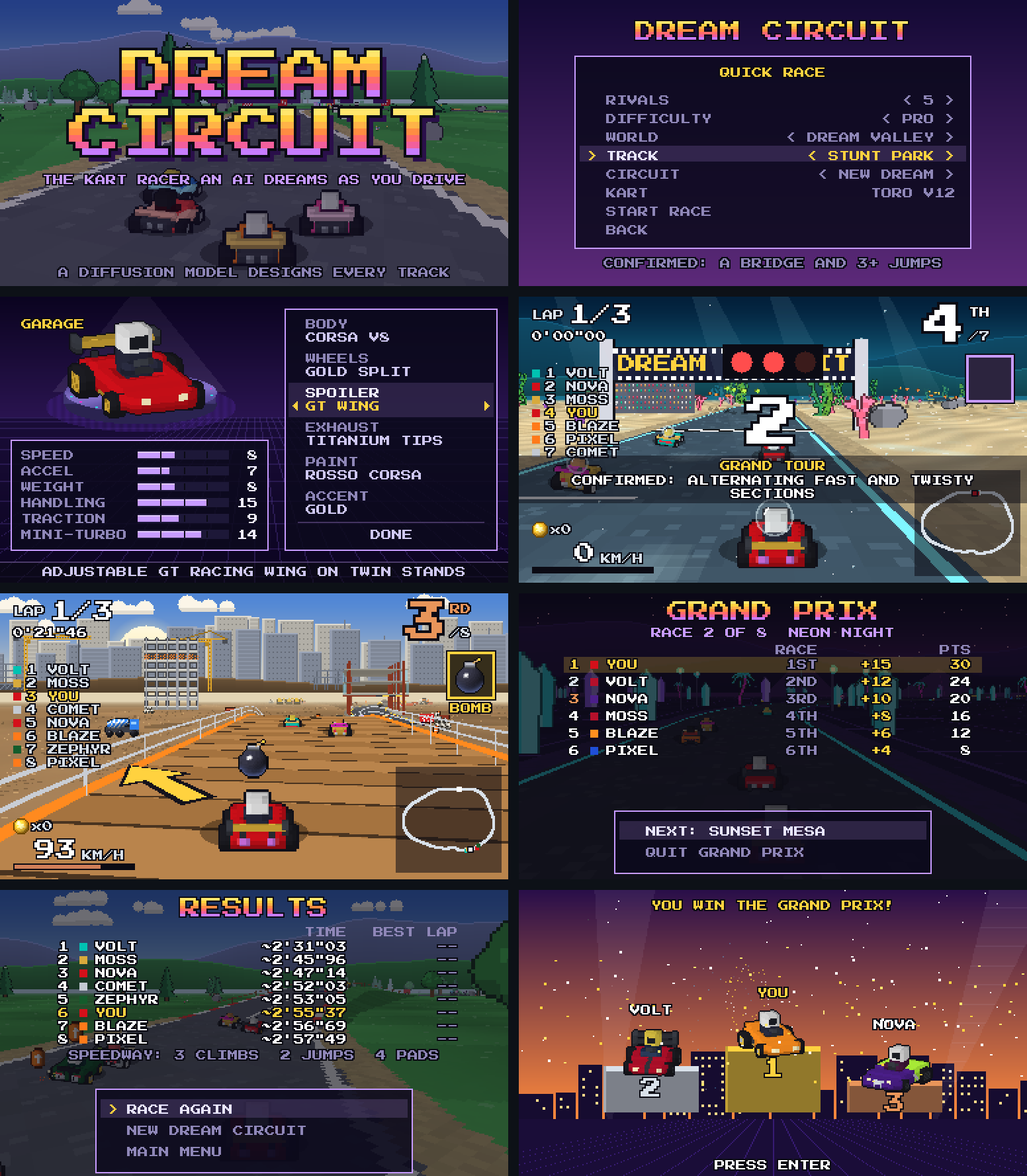
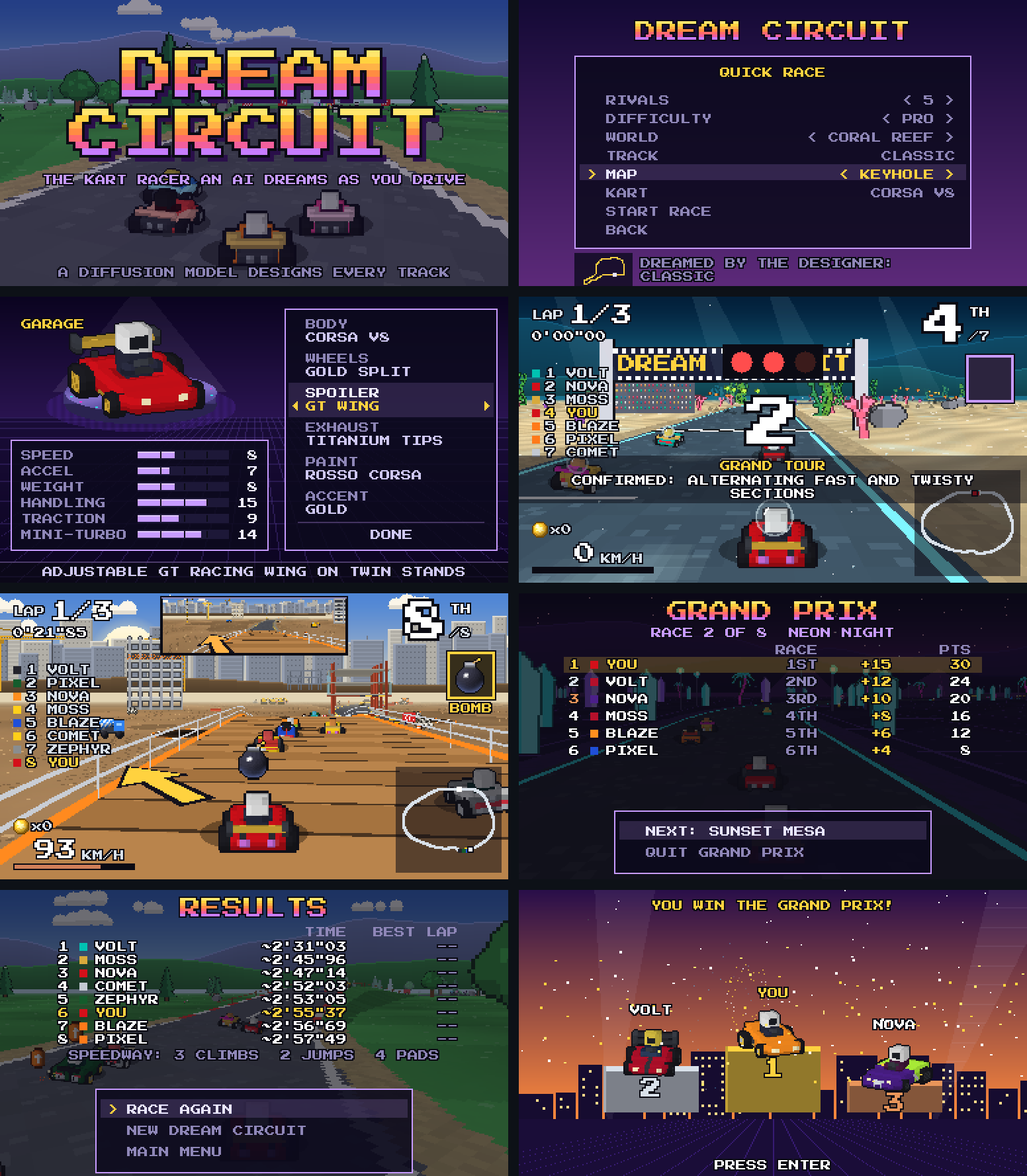
README, design notes, DATA page and screens for this round
Throwing behind with R and the rear-view mirror, the Intermediate class, Quick Race maps,
wider dreamed corners, the smooth climbs and the rescue drone in every world; new setup and
race stills in the screens sheet; 190 tests.

diff --git a/web/src/sections.ts b/web/src/sections.ts
@@ -142,14 +142,14 @@ export function renderTiles(d: Designer | null, s: Summary | null, p: Probes | n
     {
       icon: () => spriteCanvas(kartSprites(DEFAULT_BUILD, LIVERIES[0])[3], 3),
       title: "The race",
-      body: "Mode-7 kart racing in eight worlds, each with its own terrain to race over (meadows, a neon skyway, mesas, coral, cliff ledges, lava, a building site, the moon's low gravity), one race at a time or a Grand Prix for points: drift through a corner to charge a mini-turbo, hit the gas just before GO for a rocket start, and race up to seven rivals in karts built in the garage.",
+      body: "Mode-7 kart racing in eight worlds, each with its own terrain to race over (meadows, a neon skyway, mesas, coral, cliff ledges, lava, a building site, the moon's low gravity), one race at a time, on a fresh dream or a saved map, or a Grand Prix for points: drift through a corner to charge a mini-turbo, hit the gas just before GO for a rocket start, and race up to seven rivals in karts built in the garage.",
       fact: "0 to 7 rivals, in ROOKIE, INTERMEDIATE, PRO and LEGEND classes",
       href: "index.html",
     },
     {
       icon: () => spriteCanvas(itemBoxFrames()[1].sprite, 3),
       title: "Ramps, pads and items",
-      body: "Jump ramps pay a trick boost if you hop at the lip; boost pads sit at corner exits; item boxes hand out 22 items, from turbos and oil to bombs, comets and a rocket for whoever is last, with the odds of the classics by how far behind the leader you are.",
+      body: "Jump ramps pay a trick boost if you hop at the lip; boost pads sit at corner exits; item boxes hand out 22 items, from turbos and oil to bombs, comets and a rocket for whoever is last, with the odds of the classics by how far behind the leader you are. Most can be thrown backward too, aimed in a rear-view mirror.",
       fact: "placed by the game on road the designer has just dreamed",
       href: "index.html",
     },

diff --git a/README.md b/README.md
@@ -30,7 +30,7 @@ When the loop closes it locks, and laps 2 and 3 are raced on the track it dreame
 
 ## What this is
 
-1. **The game.** A third-person, Mode-7-style kart racer in a pixel framebuffer that takes the window's shape and fills the screen: up to 7 AI rivals, three speed classes, eight worlds whose road climbs over their own terrain (meadows, a neon skyway, mesas, coral ridges, cliff ledges, basalt causeways over lava, a crane's girder, crater rims in low gravity), a Grand Prix through all of them with points and a podium, seven track types that each confirm what the dreamed circuit will have, a garage to build your kart, jump ramps with trick boosts, bridges where a figure-eight crosses itself, boost pads, 22 items with the odds of the classics, drifting and mini-turbos, rocket starts, a full HUD, and a chiptune soundtrack with a song for every world. Keyboard, gamepad or touch (a joystick on phones). Everything runs in the browser with no server, and there are no image or sound files: the karts, scenery, music and sound are generated by code.
+1. **The game.** A third-person, Mode-7-style kart racer in a pixel framebuffer that takes the window's shape and fills the screen: up to 7 AI rivals, four speed classes, eight worlds whose road climbs over their own terrain (meadows, a neon skyway, mesas, coral ridges, cliff ledges, basalt causeways over lava, a crane's girder, crater rims in low gravity), a Grand Prix through all of them with points and a podium, seven track types that each confirm what the dreamed circuit will have, a garage to build your kart, jump ramps with trick boosts, bridges where a figure-eight crosses itself, boost pads, 22 items with the odds of the classics (thrown ahead or behind, a rear-view mirror for aiming back), a hazard and a rescue drone in every world, drifting and mini-turbos, rocket starts, a full HUD, and a chiptune soundtrack with a song for every world. Keyboard, gamepad or touch (a joystick on phones). Everything runs in the browser with no server, and there are no image or sound files: the karts, scenery, music and sound are generated by code.
 2. **The circuit designer.** A masked-conditional diffusion model (EDM, 1-D U-Net) trained on 66,500 circuits from a procedural circuit architect, 35% of them figure-eights. In the game it inpaints the road ahead of the karts, conditioned on everything already built and on the track type you picked (or, on a Classic track, how you are driving), and closes the loop at the start line. **No circuit exists before the race starts.**
 3. **The Dream Lab** (DREAM LAB on the main menu, part of the DATA page). A second diffusion model, a *world model*, that imagines an entire racing simulator frame by frame from the keys you press, plus the science around it: a physics audit of the dream, linear probes that find what no single frame shows (yaw rate, slip, the curve of road beyond view), and steering vectors that edit its physics live.
 
@@ -41,25 +41,26 @@ When the loop closes it locks, and laps 2 and 3 are raced on the track it dreame
 
 | | |
 |---|---|
-| **Quick Race** | 3 laps on a circuit dreamed for that race, in the world of your choice; re-race your last locked circuit from the setup screen |
+| **Quick Race** | 3 laps in the world of your choice, on the map of your choice: a circuit dreamed for that race, one of the last eight you dreamed (kept on your device), or one of eight showcase circuits the designer dreamed, each drawn beside the menu |
 | **Grand Prix** | A race in every world, back to back, against the same rivals in the same karts. Each race pays points by finishing place (15, 12, 10, 8, 6, 4, 2, 1); the standings after each race count the points up and slide the field into its new order, with total time breaking ties. At the end, an award ceremony: the camera finds third, second and first on their pedestals, each racer in their kart with their name over it, then pulls back for fireworks, confetti, spotlights, a fanfare and a cheering crowd (a winning player gets the biggest show) |
 | **Worlds** | **Dream Valley**, where the road rolls over grassy rises behind wooden fences, past woods and knolls; **Neon Night**, a synthwave grid of crystals, where the road climbs onto a skyway on pylons, with neon tubes for rails, and over low rollers of the grid, glowing peaks on the horizon; **Sunset Mesa**, up onto the tops of mesas walled in bands of sandstone, and over dunes, buttes all around; **Coral Reef**, under the sea, over ridges of rock and coral fans, where every driver wears a clear bubble helmet, sunlight ripples over the sand, shafts of light slant down, bubbles rise and schools of fish circle the kelp, coral and a shipwreck; **Mountain Pass**, over rocky shoulders of the mountain and along ledges cut into its cliffs (the rock face on one side, the drop and a guard rail on the other), through tunnels in the rock, crags and snowy peaks all around; **Volcano Core**, inside a volcano, where the road is a causeway of rock across a lake of lava that glows and flows, rising onto basalt columns over the lava itself, with cinder cones, crater walls and lava falls all around and embers rising. Drive off the rock and you sink into the lava: the screen goes dark red, and a rescue drone lowers your kart back onto the road where you left it and lets it go, about two seconds later (hop as it drops for a trick boost); **Construction Zone**, a building site where you race up onto concrete foundations, along scaffolding and high on a tower crane's steel girder, and through the steel frames of buildings going up, a city of towers and cranes behind; and **Moon Base**, in low gravity (a fast kart floats off the top of every crater's rim), every driver in a helmet, landers, domes and dishes on the regolith, and the Earth hanging in a black sky. Each world has its own chiptune |
 | **Rivals** | 0 to 7 AI karts with racing lines, braking points, overtaking room, drifts into tight corners, items saved for the right moment, and the classic rubber band. Each drives a random garage build, and the harder the class, the better the build |
-| **Difficulty** | Rookie, Pro and Legend: top speed, grip, how sharply the rivals drive and how good their karts are |
+| **Difficulty** | Rookie, Intermediate, Pro and Legend: top speed, grip, how sharply the rivals drive and how good their karts are |
 | **Garage** | Build your kart from 13 bodies inspired by real supercars (an Italian V8, a raging-bull V12 wedge, a British carbon-tub GT, a rear-engine flat-six, a W16 hypercar, a JDM twin-turbo, American muscle, a kei car, a rally hatch, a Le Mans prototype, an electric hypercar...), 13 wheels, 10 spoilers and 11 exhausts named after real tuner parts (GT wing, swan neck, ducktail, straight pipe, titanium tips, muffler delete...), plus 17 paints and 10 accents. Every part moves six stats, the ones classic kart racers show: speed, acceleration, weight, handling, traction and mini-turbo. The kart turns on a lit pedestal while you build it, its stats on a card beside the parts, with a line about the part you picked |
 | **Driving** | Arcade handling with surfaces (asphalt, kerb, shoulder, grass), drifts that charge blue and orange mini-turbos, kart-to-kart bumps where the heavier kart gives less ground; your build's stats set top speed, acceleration, cornering, grip off the road and how hard a mini-turbo fires |
+| **Rescue drone** | Every world has something to drive into off the road, set out past the shoulder on the outside of the bends: ponds in Dream Valley, holes in Neon Night's grid, quicksand in Sunset Mesa, a trench in the reef, crevasses in the mountains, the lava in the volcano, dug-out pits on the building site and chasms on the moon. Drive in, or fly off the open edge of a bridge, the skyway, a girder or a scaffold, and the screen goes dark in the colour of what you fell into while a drone lowers your kart back onto the road you left and lets it go |
 | **Jumps and tricks** | Ramps on the long straights: hop right at the lip for a trick, land it for a boost (a perfect trick boosts longer). Boost pads at corner exits (and along the straights on a Speedway) |
 | **Climbs and terrain** | In every world the road climbs two or three times a lap, built as that world builds: a grassy rise, a neon skyway, a mesa or a dune, a coral ridge, a rocky shoulder or a cliff ledge, a basalt causeway, a foundation, a scaffold or a crane's girder, a crater's rim. Each world's kinds take turns, so a lap has one of each, and a climb never takes a straight that has earned a jump. Around the circuit stand solid, sunlit landforms (knolls, buttes and dunes, glowing peaks, crags, cinder cones, heaps of spoil, reef rocks, old crater rims), always beyond where a kart can drive, and the ground itself is shaded as if it rose and fell, with ripples across the sand |
 | **Bridges** | When a figure-eight crosses itself, the later stretch flies 6 m over the earlier one on ramps, with guard rails and pillars; traffic passes over and under |
 | **The start** | Hit the gas in the half second before GO for a rocket start; hold it too early and the wheels spin |
 | **Track types** | Every circuit is still dreamed live during lap 1; the type you pick steers the dream and confirms what it will have. **Classic**: the road follows your driving. **Figure 8**: a bridge where the track crosses itself. **Speedway**: fast sweepers (every arc is asked for calm road and checked), 2+ jumps and boost pads on the straights. **Technical**: tight corners all lap (every arc asked for wild road and checked) and a pad out of the hairpins. **Grand Tour**: alternating fast and twisty sections. **Stunt Park**: a bridge and 3+ jumps. **Roller Coaster**: 4+ climbs and drops, in any world, built in that world's style. **Surprise me** picks one; a Grand Prix of surprises runs a different type every race. The countdown says what is confirmed, and the results list what was built |
-| **Items** | 22 items, as many as Mario Kart 8 Deluxe has, each doing the job of one of its items, with original names and art; rows of item boxes and lines of coins on the dreamed road, a roulette slot, and every kart shows what it carries. **Turbo**, **Triple Turbo** and **Gold Turbo** (a boost on every press for a while); **Oil Slick** and **Triple Oil** drop behind you; **Puck** and **Triple Puck** slide where you aim and bounce off the road's edges; **Dream Orb** and **Triple Orb** home onto the kart ahead; **Comet** flies up the road to the leader and comes down on them; **Bomb** is lobbed at the racer one place ahead, and its blast catches everyone near; **Rocket** flies your kart up the road, past two karts at most and never into the lead; **Static** fills the screens of everyone ahead; **Shock** spins, shrinks and slows everyone else (and a full-size kart flattens a shrunk one); **Prism** makes you invincible and faster; **Flares** throw bouncing fireballs on every press; **Boomerang** goes out where you aim and comes back, three times; **Grabber** puts a snapping claw in front of the kart; **Horn** spins whoever is close and knocks every item near out of the air, a comet too; **Jackpot** circles eight items around the kart, used one by one; **Coin** gives two coins (every coin, up to ten, is a little more top speed, and a spin costs three); **Phantom** makes you see-through and untouchable and steals someone's item. Thrown items are aimed with two presses: the first locks the sweeping arrow (a bomb or puck rides out behind as a shield meanwhile), the second throws. Items meet as they do in the classic: projectiles and slicks take each other out, an item held behind you or circling you blocks a hit, and blasts and horns clear the items around them. The odds of each come from Mario Kart 8's own Grand Prix tables, by distance behind the leader (as transcribed on the Super Mario Wiki), one table for players and one for computer drivers; the rocket keeps this game's own rule on top: only the kart in last place, 60 m or more behind the kart ahead. The items are drawn the way 16-bit games drew pre-rendered 3D: shaded pixel by pixel under one light |
+| **Items** | 22 items, as many as Mario Kart 8 Deluxe has, each doing the job of one of its items, with original names and art; rows of item boxes and lines of coins on the dreamed road, a roulette slot, and every kart shows what it carries. **Turbo**, **Triple Turbo** and **Gold Turbo** (a boost on every press for a while); **Oil Slick** and **Triple Oil** drop behind you; **Puck** and **Triple Puck** slide where you aim and bounce off the road's edges; **Dream Orb** and **Triple Orb** home onto the kart ahead; **Comet** flies up the road to the leader and comes down on them; **Bomb** is lobbed at the racer one place ahead, and its blast catches everyone near; **Rocket** flies your kart up the road, past two karts at most and never into the lead; **Static** fills the screens of everyone ahead; **Shock** spins, shrinks and slows everyone else (and a full-size kart flattens a shrunk one); **Prism** makes you invincible and faster; **Flares** throw bouncing fireballs on every press; **Boomerang** goes out where you aim and comes back, three times; **Grabber** puts a snapping claw in front of the kart; **Horn** spins whoever is close and knocks every item near out of the air, a comet too; **Jackpot** circles eight items around the kart, used one by one; **Coin** gives two coins (every coin, up to ten, is a little more top speed, and a spin costs three); **Phantom** makes you see-through and untouchable and steals someone's item. Thrown items are aimed with two presses, ahead with E or behind with R: an arrow sweeps in front of your kart and, mirrored, behind it (shown in a rear-view mirror at the top of the screen, since the camera cannot see the road behind you); the first press locks one (a bomb or puck rides out behind as a shield meanwhile), the second throws. Orbs and flares go straight back with R, and a bomb thrown back lands and waits. Rivals throw back at a kart on their tail when there is nobody to hit ahead. Items meet as they do in the classic: projectiles and slicks take each other out, an item held behind you or circling you blocks a hit, and blasts and horns clear the items around them. The odds of each come from Mario Kart 8's own Grand Prix tables, by distance behind the leader (as transcribed on the Super Mario Wiki), one table for players and one for computer drivers; the rocket keeps this game's own rule on top: only the kart in last place, 60 m or more behind the kart ahead. The items are drawn the way 16-bit games drew pre-rendered 3D: shaded pixel by pixel under one light |
 | **HUD** | Lap counter, race and best-lap timers, live position with podium colors, item slot with roulette (the item's name, shots left, AIM or THROW for an aimed item, and a meter while a prism, rocket, gold turbo, grabber or phantom lasts), a coin counter, a warning when a comet is coming for you, standings for the whole field, speed and boost bar, minimap with the designer's guess, start lights |
-| **Screen and controls** | The framebuffer is sized to the window at a whole-number scale (about 216 rows), so the game fills the screen with crisp pixels on any shape of display. Hold the brake at a standstill to back up (out of the grass too). On a phone, one thumb steers with a floating joystick (push it all the way over to drift, pull it back, straight or on a diagonal, to brake and reverse; the gas is automatic) and the other has DRIFT and ITEM. HOW TO PLAY on the main menu has a page each for the keyboard, the gamepad, touch and tips |
-| **Rendering** | Mode-7 ground with mipmaps and distance fog, the ground shaded by a lit height field so it reads as rolling land, a software polygon rasterizer for bridges, every kind of climb, tunnels (through rock, or a building's steel frame), ramps, pads and the landforms around the circuit, all depth-sorted with the sprites, a parallax sky (a city of cranes behind the building site, the Earth over the moon), billboarded scenery, lava that flows by colour cycling (every lava texel is a phase into a palette that turns over time), karts assembled from their parts as voxel models and baked into 16 viewing angles, exhaust fire while boosting, speed lines and a wider view, and a shimmering "dream mist" at the edge of the road that does not exist yet |
+| **Screen and controls** | The framebuffer is sized to the window at a whole-number scale (about 216 rows), so the game fills the screen with crisp pixels on any shape of display. Hold the brake at a standstill to back up (out of the grass too). On a phone, one thumb steers with a floating joystick (push it all the way over to drift, pull it back, straight or on a diagonal, to brake and reverse; the gas is automatic) and the other has DRIFT, ITEM and BACK (the item thrown behind; R on a keyboard, X on a pad). HOW TO PLAY on the main menu has a page each for the keyboard, the gamepad, touch and tips |
+| **Rendering** | Mode-7 ground with mipmaps and distance fog, the ground shaded by a lit height field so it reads as rolling land, a software polygon rasterizer for bridges, every kind of climb, tunnels (through rock, or a building's steel frame), ramps, pads and the landforms around the circuit, all depth-sorted with the sprites, a parallax sky (a city of cranes behind the building site, the Earth over the moon), a rear-view mirror (the world drawn a second time, from just ahead of the kart looking back, and flipped), billboarded scenery, lava that flows by colour cycling (every lava texel is a phase into a palette that turns over time), karts assembled from their parts as voxel models and baked into 16 viewing angles, exhaust fire while boosting, speed lines and a wider view, and a shimmering "dream mist" at the edge of the road that does not exist yet |
 | **Sound** | A four-channel chiptune for every world, eight songs in all (pulse lead and arpeggio, triangle bass, noise drums) that speed up on the final lap and lead the mix, plus synthesized countdown, boost, jump, trick and item effects. The engine is a soft hum under the music (or off: ENGINE on the main menu) |
 
-<p align="center"><img src="docs/assets/game_screens.png" width="768" alt="Eight screens: the title over a dreamed attract race; Quick Race setup with the Stunt Park track type and what it confirms; the garage; the countdown in Coral Reef with the track type's promise; lap 1 in the Construction Zone, up on a scaffold with a bomb's aiming arrow, a crane and the city behind; the Grand Prix standings after race 2 of 8; the results, with what the track type built; and the Grand Prix podium"></p>
+<p align="center"><img src="docs/assets/game_screens.png" width="768" alt="Eight screens: the title over a dreamed attract race; Quick Race setup with the Keyhole showcase map picked and its layout drawn beside the menu; the garage; the countdown in Coral Reef with the track type's promise; lap 1 in the Construction Zone, up on a scaffold with a bomb, its aiming arrows ahead and in the rear-view mirror, and the city behind; the Grand Prix standings after race 2 of 8; the results, with what the track type built; and the Grand Prix podium"></p>
 <p align="center"><sub>Title, setup (a track type and what it confirms), the garage, the countdown, a race up on a scaffold with a bomb ready to aim, the Grand Prix standings, the results (with what was built) and the podium.</sub></p>
 
 ## The circuit designer
@@ -73,7 +74,7 @@ When the loop closes it locks, and laps 2 and 3 are raced on the track it dreame
 **Live, in the game:**
 
 1. Before the countdown it dreams the start grid and the first stretch: a quarter of the lap.
-2. During lap 1, whenever the leader gets within 28% of a lap of the end of the road, it dreams the next 32 points (about 130 m), conditioned on everything already built, the layout of the track type you picked and the style it (or, on a Classic track, your driving) asks for; an arc that misses the type's style band is dreamed again. Each arc is 24 Heun steps (47 network calls) in a Web Worker.
+2. During lap 1, whenever the leader gets within 28% of a lap of the end of the road, it dreams the next 32 points (about 130 m), conditioned on everything already built, the layout of the track type you picked and the style it (or, on a Classic track, your driving) asks for; an arc that misses the type's style band, or has a corner tighter than 20 m (a hairpin taken at 16 m/s; Technical arcs may bend to 16 m), is dreamed again, and if every try does, the best is kept. Each arc is 24 Heun steps (47 network calls) in a Web Worker.
 3. Each new arc is lightly smoothed and checked in context, together with the designer's guess at the rest of the lap, against the architect's rules. A failing arc is dreamed again, up to 3 times. Road that exists never moves.
 4. Where the road crosses itself, the later stretch becomes a bridge, lifting road that was already built if it has to.
 5. The last arc closes the gap to the grid. The circuit **locks**, the minimap turns solid, and laps 2 and 3 run on exactly the road that was dreamed.
@@ -231,9 +232,9 @@ flowchart LR
 - **And a sharp edge in it.** The lab's two inference sessions share one WASM module, and a `run()` started while another was still in flight corrupted it (`RuntimeError: memory access out of bounds`), after which every run on the page failed. Switching lab modes mid-clip was enough to trigger it. Every inference now goes through one page-wide queue (`web/src/ort-queue.ts`, with tests).
 - **Bit-exact cross-language simulator.** The TypeScript port of the physics and renderer reproduces Python's trajectories to machine precision (about 1e-15), and **0 of 258,048 pixel bytes differ**. To get there, the port emulates NumPy's float32 rounding and its summation order. CI checks it against golden trajectories on every push.
 - **Diagnosed, not tuned.** The first figure-eight designer built 0 of 16 laps live. Instead of training longer, it was measured: given the road so far, the network misplaced the first new point by meters at high noise, which became a kink at every join. The fix was a change of representation (steps between points) plus exact known road, not more compute. The full trail, including the four fixes that did not work, is in the [design notes](docs/DESIGN.md#what-did-not-work-and-what-did).
-- **Game logic under test, headlessly.** Live track growth (committed road never moves, the loop closes and locks), bridges (built where a figure-eight crosses itself, lifting road that already exists; karts stay on the deck), jumps and tricks (a hop at the lip pays a boost on landing), the start procedure, lap counting (including backing over the line), the inference queue, track types (each arc's style measured as in training, within 0.06 of the Python on every reference arc; an arc that misses its band is dreamed again; every type's confirmed jumps, pads and climbs are there after the lock, never under a kart), reversing (out of the grass too), items (all 22 and how they meet: the classic's odds tier by tier, the rocket only for a last place 60 m behind, two-press aiming, a bomb's blast catching everyone near, pucks bouncing, orbits and held items blocking hits, a horn knocking a comet down, a phantom's theft, coins as top speed, every item used by rivals, and press-not-hold firing in a full 8-kart race), the worlds (every world builds its own kinds of climb and keeps all its jumps, karts stay on top of girders and scaffolds, a kart floats off a crater's rim on the moon and hardly hops at home, landforms stand beyond the fence with nothing growing inside them, every world has a song of its own), the garage (stats within range, better rival karts in harder classes, a fast build really is faster and a heavy one wins the bump), the screen sizing and the touch joystick, the volcano (the rock bank is safe and the lava is not; a kart that goes in is set back on the middle of the road it left, facing up it; laps still count right when that is behind the line; and rivals almost never go in), and AI rivals that must lap a twisty circuit off the grass and drift its corners. A crowded-race test caught kart bumps pumping speed in pile-ups: the impulse was not projected onto each kart's heading, and one kart reached 88 m/s. Filming the hero video caught another: the countdown never passed the throttle to the race, so a rocket start was impossible. The race was also driven end to end in a browser through a dev-only hook.
+- **Game logic under test, headlessly.** Live track growth (committed road never moves, the loop closes and locks), bridges (built where a figure-eight crosses itself, lifting road that already exists; karts stay on the deck), jumps and tricks (a hop at the lip pays a boost on landing), the start procedure, lap counting (including backing over the line), the inference queue, track types (each arc's style measured as in training, within 0.06 of the Python on every reference arc; an arc that misses its band is dreamed again; every type's confirmed jumps, pads and climbs are there after the lock, never under a kart), reversing (out of the grass too), items (all 22 and how they meet: the classic's odds tier by tier, the rocket only for a last place 60 m behind, two-press aiming, a bomb's blast catching everyone near, pucks bouncing, orbits and held items blocking hits, a horn knocking a comet down, a phantom's theft, coins as top speed, every item used by rivals, and press-not-hold firing in a full 8-kart race), throwing behind (a puck or an orb thrown back hits the kart on your tail, a bomb thrown back waits, rivals throw back), the rescue drone (each world's hazard set out past the shoulder, a kart fished out of a pond and set back on its road, a kart flying off a bridge's edge dropped and lifted back onto the deck, and none off an embankment's slope), the worlds (every world builds its own kinds of climb and keeps all its jumps, karts stay on top of girders and scaffolds, a kart floats off a crater's rim on the moon and hardly hops at home, landforms stand beyond the fence with nothing growing inside them, every world has a song of its own), the garage (stats within range, better rival karts in harder classes, a fast build really is faster and a heavy one wins the bump), the screen sizing and the touch joystick, the volcano (the rock bank is safe and the lava is not; a kart that goes in is set back on the middle of the road it left, facing up it; laps still count right when that is behind the line; and rivals almost never go in), and AI rivals that must lap a twisty circuit off the grass and drift its corners. Frame-by-frame captures of a kart going up a bridge caught it shuddering: the road's height under a kart was read at the nearest road point, 0.6 m apart, so it rose in uneven steps (0.11, then 0.22 m a frame); it is now read between points. A crowded-race test caught kart bumps pumping speed in pile-ups: the impulse was not projected onto each kart's heading, and one kart reached 88 m/s. Filming the hero video caught another: the countdown never passed the throttle to the race, so a rocket start was impossible. The race was also driven end to end in a browser through a dev-only hook.
 - **A film crew in the dev build.** The trailer that opens the DATA page, and the GIF at the top, are shot in the game itself (`web/src/tools/cinema.ts`). It drives races through a dev-only hook on circuits the designer dreamed and films clean, HUD-free shots from scripted cameras (a drone over the grid, the chase camera through a jump, an orbit around a bridge, tracking shots along a neon skyway, a cliff ledge and a crane's girder, cranes over the land, a kart floating off a crater's rim with the camera turned toward the Earth, close-ups of the items in use, a kart going into the volcano's lava and coming back out under the rescue drone), plus the garage and the podium as the game draws them. The 24 shots cross-fade into a seamless loop; every frame is upscaled 5x without smoothing and encoded as it is filmed, to 1080p H.264 in the browser with WebCodecs and a hand-written MP4 muxer (`web/src/tools/mp4.ts`).
-- **181 tests** in all: 61 in pytest, including Hypothesis property tests that fuzz the vehicle dynamics, and 120 in Vitest. `ruff`, `mypy` and `tsc` are clean, and CI runs everything on GitHub Actions with CPU-only PyTorch.
+- **190 tests** in all: 61 in pytest, including Hypothesis property tests that fuzz the vehicle dynamics, and 129 in Vitest. `ruff`, `mypy` and `tsc` are clean, and CI runs everything on GitHub Actions with CPU-only PyTorch.
 - **Data at simulator speed.** 464k frames from 360 circuits in 100 s on 10 cores, written straight into shared memmaps. The architect's 70,000 circuits take 13.5 minutes.
 - **Reproducible end to end.** `make all` regenerates every model, number and chart in this README; the numbers are written in by `scripts/update_readme.py`. (The gameplay captures come from the game itself.)
 

diff --git a/docs/DESIGN.md b/docs/DESIGN.md
@@ -103,7 +103,15 @@ Gaussian (sigma = 1 point, new arc only) and checked **in context**: the arc plu
 guess for the still-unknown rest must form a valid circuit under the architect's rules.
 Checking the arc with the guess for the rest catches an arc that would make closing the lap
 impossible while it can still be dreamed again. A failing arc is resampled up to 3 times; after
-that a sigma = 2 smoothing of the last sample is kept, so the race always goes on.
+that a sigma = 2 smoothing of the last sample is kept, so the race always goes on. An arc that
+passes but has a corner tighter than 20 m (in game meters: the architect allows 12.4 m, a hairpin
+a kart takes at about 16 m/s, and players found the dreamed laps too tight) is dreamed again too,
+on the same retries; if every try has one, the try with the widest corner is kept (an arc asked to
+be wild, a Technical track's, may bend to 16 m). Smoothing the tight corners wider was tried first
+and made them worse: a Gaussian pulls a round bend's points in toward its middle and closer
+together (4.1 m apart became 2.5 m), so the same turn happens in less road, and on one test circuit
+the tightest bend went from 15.7 m to 11.4 m. Smoothing irons out kinks; only the designer can draw
+a wider corner.
 
 **The style signal.** The race keeps exponential averages, over about eight seconds, of the
 player's speed as a share of the class's top speed, the share of time spent drifting, off the
@@ -250,7 +258,14 @@ pillars placed clear of the road underneath. Crossings are found with a spatial 
 is committed; road that was already built is lifted after the fact, its texture repainted and
 its scenery moved. Karts have a height: the ground under a kart is the deck, a ramp or the
 plain road, the guard rails keep it on the deck, and two karts only collide if they are at the
-same level, so traffic passes over and under freely.
+same level, so traffic passes over and under freely. The height under a kart is read between the
+two road points either side of it (and a jump ramp's wedge by the kart's exact place along it):
+read at the nearest point alone, the road rose in steps of a point, 0.6 m apart, one or two a frame
+(0.11, then 0.22, then 0.11 m), and a kart shuddered up every ramp and bridge. A kart on raised road
+is drawn over the road it stands on, and only what is on the ground under a bridge's deck is drawn
+before the deck when the camera is up on it (that rule once applied to anything low whenever the
+camera was high, and a kart coming down a ramp under a camera still up on the deck vanished into
+it).
 
 **Sprites.** Karts are tiny voxel models (body, wheels, driver, helmet in each livery's colors)
 rendered from 16 directions at load time. The renderer picks the view from the angle between the
@@ -271,8 +286,8 @@ shadows and drift sparks. Nothing is a bitmap file.
 and rocks scatter near new road as it is committed (never on it), chevron boards go on the
 outside of tight corners, and the distant landscape is placed once the circuit locks.
 
-**Karts and rivals.** Arcade handling: acceleration toward a class top speed (Rookie 24, Pro 28,
-Legend 32 m/s), slower surfaces off the asphalt (kerb, shoulder, grass), yaw rate limited by
+**Karts and rivals.** Arcade handling: acceleration toward a class top speed (Rookie 24,
+Intermediate 26, Pro 28, Legend 32 m/s), slower surfaces off the asphalt (kerb, shoulder, grass), yaw rate limited by
 grip over speed, and drifting: hold drift while steering to slide with a stronger turn, charge blue (0.7 s)
 and orange (1.6 s) sparks, and release for a mini-turbo. Rivals follow a racing line that cuts
 the inside of corners with pure pursuit, brake for a friction-limited speed profile with
@@ -320,8 +335,8 @@ top speed within 8%, acceleration within 25%, cornering grip within 12%, the spe
 shoulder and the grass, a mini-turbo that charges sooner and fires up to 35% longer, and weight,
 which splits each bump's push and impulse by mass. The classic kart is exactly neutral, so the
 race physics (and its tests) are unchanged for it. Rivals draw 24 random builds, rank them by a
-racing score (speed and mini-turbo count most) and take one from the bottom third on Rookie, the
-middle on Pro and the top on Legend. Each kart is assembled as a voxel model from its parts (a
+racing score (speed and mini-turbo count most) and take one from the bottom on Rookie, the lower
+middle on Intermediate, the upper middle on Pro and the top on Legend. Each kart is assembled as a voxel model from its parts (a
 shell sampled from a width and roof-height profile along the car, a carved cockpit, lights,
 intakes, stripes; wheels with rims painted on their outer faces; the spoiler and pipes mounted
 where the body says) and baked into its 16 views once per build; the garage's turntable splats
@@ -426,6 +441,29 @@ in strata, lit red toward their foot, with lava pouring down them from notches i
 embers rise through the air; the scenery is basalt columns, obsidian shards, smoking vents, magma
 boulders and spires of rock standing in the lava, and nobody sits in a grandstand out there.
 
+**Maps.** Quick Race races a fresh dream, or a map: the last eight circuits the player dreamed
+(saved on the device, in decimeters, with their track type and world, named MY DREAM 1, 2, ...) or
+eight showcase circuits the designer dreamed (the ones the trailer was filmed on, shipped with the
+game). A map is raced as it is, with no dreaming, by its own track type's rules, and the setup
+screen draws its layout beside the hint. While a map is picked, the TRACK row shows the map's own
+type, dimmed and locked, so the screen never claims a type the race won't use.
+
+**The rescue drone, in every world.** The volcano's rescue works anywhere. When the lap locks, each
+other world sets out up to seven hazards of its own kind (`world/hazards.ts`): ponds in Dream
+Valley, holes in Neon Night's grid, quicksand in Sunset Mesa, a trench in the reef, crevasses in
+the mountains, dug-out pits on the building site and chasms on the moon. Each is an ellipse on the
+outside of a bend (the tightest bends first, where karts run wide), wholly 10.3 m or more from every
+road point (past the road and its shoulder), clear of the start and of each other, painted into the
+ground (and painted again after any repaint of that ground) with nothing left standing in it. A kart
+on the ground in one goes in as into the lava: it sinks out of sight in a splash of the hazard's
+colours, the screen darkens to the hazard's colour, and the drone sets it back on the road it left.
+A kart can also fall off raised road: flying over the open edge of a bridge, the skyway, a girder,
+scaffolding, a foundation, a mesa's wall, a basalt causeway or the drop side of a cliff ledge, there
+is nothing under it but the ground far below, and once it has dropped 1.5 m under the deck the drone
+comes for it and lifts it back onto the deck. Over an embankment's slope (a meadow's, a dune's, a
+crater's rim) a kart just lands on the road again, as before. Rivals keep to their racing lines and
+seldom go in.
+
 **The Grand Prix.** A cup (`race/cup.ts`) runs one race in every world, back to back. The rivals
 keep the same karts throughout (their builds come from the cup's seed, not each race's), and each
 race pays points by finishing place, 15, 12, 10, 8, 6, 4, 2 and 1; the standings rank by points,
@@ -445,7 +483,8 @@ the way to the side it drifts (with hysteresis, so a drift does not flicker off 
 pulled back, straight or on a diagonal, it brakes and then reverses, steering as it backs up. The
 gas is automatic once the race is on, so steering and drifting take one thumb; before GO the
 engine revs only while the thumb is on the stick, which keeps the rocket start a matter of
-timing. DRIFT (hops and tricks too) and ITEM sit under the right thumb. On every device the brake
+timing. DRIFT (hops and tricks too), ITEM and BACK (the item thrown behind: R on a keyboard, X on
+a pad) sit under the right thumb. On every device the brake
 wins over the gas, and held at a standstill it backs the kart up at up to 7 m/s; the grass slows
 a reversing kart's top speed but no longer drags it to a halt (it once cancelled all but 1 m/s^2
 of the reverse thrust, and reversing is how a kart gets out of the grass). HOW TO PLAY on the main menu is
@@ -457,7 +496,7 @@ shortly after the start, none in the last 70 m before the line), with lines of c
 boxes appear as the road is dreamed. Driving through one gives an item; the player's slot spins for
 1.2 s first. There are 22 (`race/items.ts`), as many as Mario Kart 8 Deluxe has, each doing the job
 of one of its items, with original names and art. Turbo, Triple Turbo and Gold Turbo (a boost on
-every press for 7.5 s); Oil Slick and Triple Oil, dropped behind; Puck and Triple Puck, which slide
+every press for 7.5 s); Oil Slick and Triple Oil, dropped behind (a slick is 4.6 m across, a third of the road); Puck and Triple Puck, which slide
 along the aimed arrow, bounce off the road's edges up to six times and spin the first kart they
 meet, their thrower too; Dream Orb and Triple Orb, which travel up the centerline at the shooter's
 speed plus 12 m/s, ease toward the target's lane and home in directly within 22 m; Comet, which flies
@@ -476,10 +515,21 @@ boost with each bite; Horn, a ring of sound that spins karts within 7 m and knoc
 Coin, two coins (every coin, up to ten, adds 0.6% to top speed, and a spin costs three); and
 Phantom, see-through and untouchable for 5 s, which steals an item from someone ahead.
 
-Thrown items are aimed with two presses: an arrow on the road in front of the kart sweeps left and
-right (up to 43 degrees either way), the first press locks it (it turns blue, and a bomb or a puck
-rides out behind the kart as a shield meanwhile), and the second throws along it; rivals aim at the
-nearest kart in the arc and press twice, two frames apart. Items meet as they do in the classic:
+Thrown items are aimed with two presses, ahead (E) or behind (R): an arrow on the road in front of
+the kart sweeps left and right (up to 43 degrees either way) and a second sweeps behind it, mirrored
+(on the same side of the kart); the first press locks one (it turns blue, and a bomb or a puck rides
+out behind the kart as a shield meanwhile), and the second throws along it; rivals aim at the
+nearest kart in the arc and press twice, two frames apart, and throw back at a kart on their tail
+when there is nobody to hit ahead. The chase camera, 6.2 m behind the kart and 2.9 m up, cannot see
+the road behind it (the ground is in view only from about a meter behind the kart, under the kart's
+own sprite), so while the player holds something that can go back, a rear-view mirror sits at the
+top of the screen: the world drawn a second time into a small framebuffer (the renderers read the
+screen's size as they draw, so it is swapped for the mirror's for the call), from 2.5 m ahead of the
+kart and 3.4 m up, looking back over it (the kart itself is not drawn), the sky remapped to the
+mirror's field of view, then flipped as a mirror is, so what is on the kart's left shows on the
+left; the arrow behind is drawn 1.6 times larger there. Thrown back, an item goes back down the road
+at its own speed (thrown ahead it carries the kart's): a puck slides and bounces, an orb goes
+straight back like one (no homing), a bomb lands behind and waits, a boomerang goes out and home. Items meet as they do in the classic:
 two projectiles, or a projectile and a slick, take each other out; a projectile into a waiting bomb
 sets it off; an item held out behind a kart blocks one hit from behind, and every puck or orb of a
 triple circling a kart blocks one; a prism or a rocket shrugs everything off and a phantom lets it
